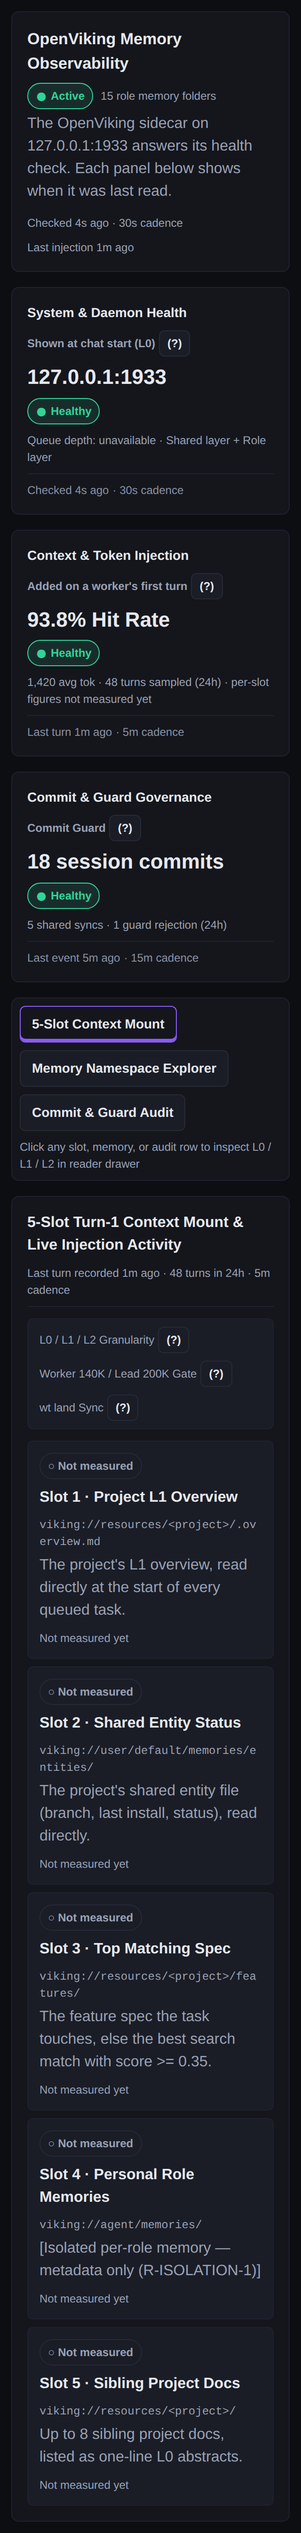
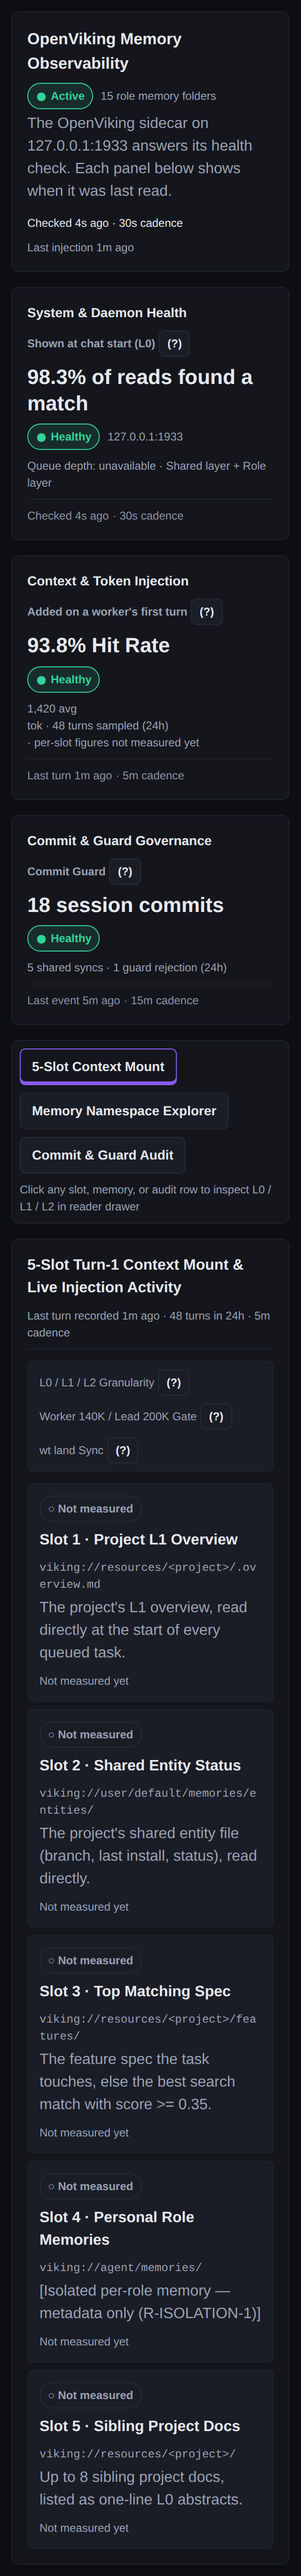
design #299: card 1 leads with the reads that found a match, the bind address moves beside the pill
Product read the live page (rm-c44149ef) and found card 1 spending its biggest type on 127.0.0.1:1933 -- a
constant the reader already knows, while cards 2 and 3 lead with numbers that move. The hero is now the
daemon's own moving measure, worded so it never reads as a twin of card 2's hit rate:

- live/stale: '98.3% of reads found a match' (observer.retrieval_hit_rate_pct, cited in data-source-field)
- empty: 'No memory reads in window' -- never the last live percentage
- error: '-- (Unreachable)' -- the figure comes from :1933, so it degrades with it
- loading: 'Loading matched reads...'
- the bind address keeps its identity role beside the health pill in every state

design.md's card 1 contract matches, and the four tracked reference shots are regenerated.

diff --git a/.temper/features/openviking-dashboard/prototype/index.html b/.temper/features/openviking-dashboard/prototype/index.html
@@ -800,9 +800,11 @@ button:focus-visible,
           <span id="tip-sidecar" role="tooltip" class="tooltip">Mode 1: lead chats get a folded “viking:// URIs + 1-sentence L0 .abstract.md headlines only” card from the sidecar on 127.0.0.1:1933. If it is down, workers read their on-disk notebook.md backup (R-PREF-RESIDUAL-1b) and lead chats keep pi-acp only (R-FAIL-3).</span>
         </span>
       </div>
-      <div class="metric" id="c1-metric" data-field="metric" data-figure="true" data-source-field="observer.daemon_bind" data-age="4s">127.0.0.1:1933</div>
+      <!-- #299 (product rm-c44149ef): the hero is the daemon's own moving measure; the bind is identity, so it sits beside the pill -->
+      <div class="metric" id="c1-metric" data-field="metric" data-figure="true" data-source-field="observer.retrieval_hit_rate_pct" data-age="4s">98.3% of reads found a match</div>
       <div class="status-row" data-field="status">
         <span id="c1-badge" class="badge badge-healthy" data-slot="state-badge" data-icon="circle-check" data-health-state="healthy"><span class="glyph" aria-hidden="true">●</span> Healthy</span>
+        <span class="meta" id="c1-bind" data-source-field="observer.daemon_bind">127.0.0.1:1933</span>
       </div>
       <div class="meta" id="c1-context" data-field="context" data-figure="true" data-source-field="observer.queue_depth" data-age="4s">Queue depth: unavailable · Shared layer + Role layer</div>
       <div class="age-footer" id="c1-age" data-field="age" data-age-label="true" data-panel-updated-label="true"><span data-source-field="observer.checked_at">Checked 4s ago</span> · 30s cadence</div>
@@ -1112,7 +1114,8 @@ button:focus-visible,
 (function () {
   var LIVE_FIGURES = {
     "hdr-folders": "15 role memory folders",
-    "c1-metric": "127.0.0.1:1933",
+    "c1-metric": "98.3% of reads found a match",
+    "c1-bind": "127.0.0.1:1933",
     "c1-context": "Queue depth: unavailable · Shared layer + Role layer",
     "c2-metric": "93.8% Hit Rate",
     "c2-context": "1,420 avg tok",
@@ -1413,6 +1416,8 @@ button:focus-visible,
       fill(c2Age, [["Checked 4s ago", "observer.checked_at"], " · 5m cadence"]);
       fill(c3Age, [["Checked 4s ago", "observer.checked_at"], " · 15m cadence"]);
       if (p1Upd) fill(p1Upd, [["Checked 4s ago", "observer.checked_at"], " · 0 turns in window · 5m cadence"]);
+      // #299: no turn ran in the window, so no read was matched; the hero says that instead of repeating the last rate
+      byId("c1-metric").textContent = "No memory reads in window";
       byId("c2-metric").textContent = "0 turns in window";
       // #290 S4-1: this figure is the turn count, not the hit rate (null with no turns), so it names its own field
       byId("c2-metric").setAttribute("data-source-field", "metrics.turns_sampled_24h");
@@ -1468,7 +1473,7 @@ button:focus-visible,
       c3Age.textContent = "Loading… · 15m cadence";
       if (p1Upd) p1Upd.textContent = "Loading slot telemetry… · 5m cadence";
       folders.textContent = "Loading role memory folders…";
-      byId("c1-metric").textContent = "Loading daemon status…";
+      byId("c1-metric").textContent = "Loading matched reads…";
       // #290 C4-2: plain words only; the reader is not shown an internal route
       byId("c1-context").textContent = "Loading the health check and queue depth…";
       byId("c2-metric").textContent = "Loading hit rate…";

diff --git a/.temper/features/openviking-dashboard/design.md b/.temper/features/openviking-dashboard/design.md
@@ -1,41 +1,41 @@
 # Feature Design Spec: OpenViking Memory Dashboard (`openviking-dashboard`)
 
-Grounded in `.temper/features/openviking-dashboard/brief.md`, `.temper/design/DESIGN.md`, `.temper/design/tokens.json`, and the OpenViking contract. Read-only `pi-web-ui` surface: no memory mutation controls.
+Grounded in `brief.md`, `../../design/DESIGN.md`, `../../design/tokens.json`, and the OpenViking contract. Read-only `pi-web-ui` surface: no memory mutation controls.
 
 ## First View, Disclosure Tiers & Breakpoints (`320px`, `390px`, `1440px`)
 
 - **Tier 1 — Glanceable First View:**
   1. **Status Header (`[data-component="status-header"]`, `30s`):** Title, mode badge (`observer.mode_label` only: `Active`, `Degraded Local Fallback`, `Offline`), the count `N role memory folders` (no liveness claim), icon, age and cadence.
-  2. **3 Summary Cards (`[data-component="summary-card"]`, each `data-panel-updated-at`, max 5 `[data-field]` text fields):**
-     - **System & Daemon Health (`data-card-id="system-health"`, `30s`):** Daemon bind, health pill + icon, queue depth (`null` in v1: `unavailable`, never `0`), panel age/cadence.
-     - **Context & Token Injection (`data-card-id="context-injection"`, `5m`):** 5-slot hit rate, health pill + icon, avg tokens + turns sampled, panel age/cadence.
-     - **Commit & Guard Governance (`data-card-id="commit-governance"`, `15m`):** `N session commits` (24h; never a bare `commits`), health pill + icon, shared promotions + guard rejections, panel age/cadence.
+  2. **3 Summary Cards (`[data-component="summary-card"]`, each `data-panel-updated-at`, max 5 `[data-field]` text fields; each card: hero figure, health pill + icon, supporting line, panel age/cadence):**
+     - **System & Daemon Health (`data-card-id="system-health"`, `30s`):** Hero `observer.retrieval_hit_rate_pct` in plain words, never card 2's `hit rate`: `98.3% of reads found a match` (no reads -> `No memory reads in window`, offline -> `— (Unreachable)`, loading -> `Loading matched reads…`); daemon bind beside the pill (identity, not a figure); queue depth (`null` in v1: `unavailable`, never `0`).
+     - **Context & Token Injection (`data-card-id="context-injection"`, `5m`):** Hero 5-slot hit rate; avg tokens + turns sampled.
+     - **Commit & Guard Governance (`data-card-id="commit-governance"`, `15m`):** Hero `N session commits` (24h; never a bare `commits`); shared promotions + guard rejections.
   3. **3 Workspace Tabs (`[role="tablist"]` -> 3 `button[role="tab"][data-tab]`):**
      - **Tab 1 — `5-Slot Context Mount` (`data-tab="mount-map"`, `5m`):** 5 rows (labels exactly as `server/openviking/types.ts`) with URI prefix, hit rate, avg tokens, status badge, `(?)` tooltip, and age.
      - **Tab 2 — `Memory Namespace Explorer` (`data-tab="namespace-explorer"`, `15m`):** Expandable rows (`[data-component="memory-row"]`) across `viking://resources/`, `viking://user/memories/`, and role-isolated `viking://agent/memories/`, with URI, role/scope pill, `L0 / L1 / L2` badge, one-line `L0` abstract, and age.
      - **Tab 3 — `Commit & Guard Audit` (`data-tab="commit-audit"`, `15m`):** Expandable rows (`[data-component="audit-row"]`) with event age, action badge (`commit` = session commits only, `role_memory_write`, `promote_shared`, `reject_noise`, `sidecar_timeout`), role, URI, and one-line `L0` summary.
 - **Tier 2 — Concept Tooltips (`[role="tooltip"]`):** Every contract badge (`L0`/`L1`/`L2`, `Slot 1–5`, `Commit Guard`, `Degraded Local Fallback`, `Sidecar Timeout`) has a `>= 24x24px` keyboard `(?)` trigger (`aria-describedby`).
-- **Tier 3 — Reader Drawer (`[data-component="reader-drawer"]`):** Click or `Enter`/`Space` on any row sets `aria-expanded="true"` and opens the drawer (`role="dialog"`): `L0 Abstract`, `L1 Overview`, `L2 Full Content` tabs + provenance. `Escape` or `[data-slot="drawer-close"]` closes it and returns focus to the row.
+- **Tier 3 — Reader Drawer (`[data-component="reader-drawer"]`):** Click or `Enter`/`Space` on any row sets `aria-expanded="true"` and opens the drawer (`role="dialog"`): `L0 Abstract`, `L1 Overview`, `L2 Full Content` tabs + provenance. `Escape` or `[data-slot="drawer-close"]` closes it, focus back on the row.
 - **Responsive Layout:** `1440px`: 3-column summary grid (`16px` gap), `520px` right drawer. `390px`/`320px`: single-column stack (`16px`/`12px` padding), `100vw` modal bottom-sheet drawer (`Tab`/`Shift+Tab` stay inside), `0px` horizontal overflow, body `>= 16px`, labels `>= 12px`.
 
 ## Screen States
 
-Only copy of the state visuals (behaviour: `.temper/features/openviking-dashboard/spec-states.md` §4). Each state has its own token, label, icon (`data-icon`) and border, so colour is never the sole cue:
-- **`live` (`Healthy`):** Token `status-healthy-fg`/`status-healthy-bg`, label `Active` or `Healthy`, glyph `●` (`data-icon="circle-check"`), `solid` border (`data-health-state="healthy"`).
+Only copy of the state visuals (behaviour: `spec-states.md` §4). Each state has its own token, label, icon (`data-icon`) and border, so colour is never the sole cue:
+- **`live` (`Healthy`):** Tokens `status-healthy-{fg,bg}`, label `Active` or `Healthy`, glyph `●` (`data-icon="circle-check"`), `solid` border (`data-health-state="healthy"`).
 - **`loading`:** `[data-screen-state="loading"]` skeletons; never fake `0` counters; pills read `Loading…`, no status glyph or `data-icon`.
-- **`stale` (past cadence or a sync pending):** Token `status-stale-fg`/`status-stale-bg`, label `Stale` (header `Degraded Local Fallback`), glyph `◐` (`data-icon="clock-stale"`), `dashed` border (`data-health-state="stale"`), plus visible `[data-stale-badge="true"]` printing that source's `stale_badge` verbatim (§4): never wording the page composes, an age it derives, or a duration beside `pending sync`; `null` = no pill.
-- **`empty` (online, 0 events):** Token `status-zero-fg`/`status-zero-bg`, label `Zero Activity`, glyph `◌` (`data-icon="circle-empty"`), `dotted` border (`data-health-state="zero-activity"`). Panels with no events state `0 events in window (server online)`—never `Healthy`, `Stale`, or `Server Unreachable`.
-- **`error` (cannot reach `127.0.0.1:1933`):** Token `status-unreachable-fg`/`status-unreachable-bg`, label `Server Unreachable` (header `Offline`), glyph `✕` (`data-icon="octagon-x"`), `double` border (`data-health-state="server-unreachable"`). `:1933`-sourced figures render `— (Unreachable)` (`data-unreachable-value="true"`), **never** `0` or `Healthy`. Local-JSONL figures keep count and age: `from local audit log` (card 3/Tab 3) or `from local metrics log` (card 2/Tab 1). A reader layer reads `Unavailable while offline` only where `:1933` serves it; isolated and structurally empty layers, and the Tab 3 note, keep their own reason.
-- **Per-card pills:** each pill shows its own panel's `health_state`, not the screen's; local-log cards 2-3 are never `Server Unreachable`. `error`: card 1 `Server Unreachable`, cards 2-3 `Stale (> 5m)`/`(> 15m)` (every pill prints its `stale_badge` verbatim). Degraded `stale`: card 1 `Stale (pending sync)`, footer `Answers, but 2 worktree syncs are still waiting to land` (`auxiliary.rollout.pending_wt_land_syncs`). `empty`: card 1 `Healthy`.
+- **`stale` (past cadence or a sync pending):** Tokens `status-stale-{fg,bg}`, label `Stale` (header `Degraded Local Fallback`), glyph `◐` (`data-icon="clock-stale"`), `dashed` border (`data-health-state="stale"`), plus visible `[data-stale-badge="true"]` printing that source's `stale_badge` verbatim (§4): never wording the page composes, an age it derives, or a duration beside `pending sync`; `null` = no pill.
+- **`empty` (online, 0 events):** Tokens `status-zero-{fg,bg}`, label `Zero Activity`, glyph `◌` (`data-icon="circle-empty"`), `dotted` border (`data-health-state="zero-activity"`). Panels with no events state `0 events in window (server online)`—never `Healthy`/`Stale`/`Server Unreachable`.
+- **`error` (cannot reach `127.0.0.1:1933`):** Tokens `status-unreachable-{fg,bg}`, label `Server Unreachable` (header `Offline`), glyph `✕` (`data-icon="octagon-x"`), `double` border (`data-health-state="server-unreachable"`). `:1933`-sourced figures render `— (Unreachable)` (`data-unreachable-value="true"`), **never** `0` or `Healthy`. Local-JSONL figures keep count and age: `from local audit log` (card 3/Tab 3) or `from local metrics log` (card 2/Tab 1). A reader layer reads `Unavailable while offline` only where `:1933` serves it; isolated and structurally empty layers, and the Tab 3 note, keep their own reason.
+- **Per-card pills:** each pill shows its own panel's `health_state`, not the screen's; local-log cards 2-3 are never `Server Unreachable`. `error`: card 1 `Server Unreachable`, cards 2-3 `Stale (> 5m)`/`(> 15m)`. Degraded `stale`: card 1 `Stale (pending sync)`, footer `Answers, but 2 worktree syncs are still waiting to land` (`auxiliary.rollout.pending_wt_land_syncs`). `empty`: card 1 `Healthy`.
 - **Ages:** the daemon's check age is `observer.checked_at` (request time): `Checked 4s ago`; offline `No answer from 127.0.0.1:1933 · checked 4s ago`. Each visible age names its timestamp in `data-source-field`.
-- **Last answered (`error` only):** muted line under that, `Last answered 18m ago` (now minus `observer.last_reachable_at`; under 60s `3s`, never `0m`/`just now`); `null`: `No successful contact since the dashboard server started`. Not shown elsewhere; gates nothing.
-- **Interactive States:** per `.temper/design/DESIGN.md`; selected tabs, filters and tiers use the accent, never a status tone.
+- **Last answered (`error` only):** muted line below, `Last answered 18m ago` (now minus `observer.last_reachable_at`; under 60s `3s`, never `0m`/`just now`); `null`: `No successful contact since the dashboard server started`. Not shown elsewhere.
+- **Interactive States:** per `../../design/DESIGN.md`; selected tabs, filters and tiers use the accent, never a status tone.
 
-## Endpoint Shapes & Figure-to-Server-Field Contract (Zero Client Roll-Up Math)
+## Figure-to-Server-Field Contract (No Client Math)
 
 | UI Figure (`overview` unless noted) | `data-source-field` | `data-age` |
 |---|---|---|
-| Header mode, folders, daemon bind, queue depth | `observer.{mode_label,role_memory_folder_count,daemon_bind,queue_depth}` | `observer.checked_at` |
+| Header mode, folders, daemon bind, queue depth, card 1 hero | `observer.{mode_label,role_memory_folder_count,daemon_bind,queue_depth,retrieval_hit_rate_pct}` | `observer.checked_at` |
 | 5-slot hit rate & avg tokens | `metrics.{slot_hit_rate_pct,avg_injected_tokens,turns_sampled_24h}` | `metrics.last_recorded_at` |
 | 24h session commits, promotions, rejects | `changelog.{session_commits_24h,promotions_24h,rejected_24h}` | `changelog.last_event_at` |
 | Per-slot mount row metrics | `slots[].{slot_id,uri_prefix,hit_rate_pct,avg_tokens,state}` | `slots[].last_sampled_at` |
@@ -44,7 +44,7 @@ Only copy of the state visuals (behaviour: `.temper/features/openviking-dashboar
 
 ## Show&Tell
 
-Prototype link: `/showtell/#/d/d_openviking_dashboard`.
+Prototype: `/showtell/#/d/d_openviking_dashboard`.
 
 ### Prototype-Only Chrome Excluded from Production
 
@@ -58,5 +58,5 @@ Banned from production (quote verbatim into Architecture's `spec.md`):
 ## Reference Screenshots
 
 ```text
-.temper/features/openviking-dashboard/shots/live-{1440-dark,1440-light,390-dark,320-dark}@2x.png
+shots/live-{1440-dark,1440-light,390-dark,320-dark}@2x.png
 ```
